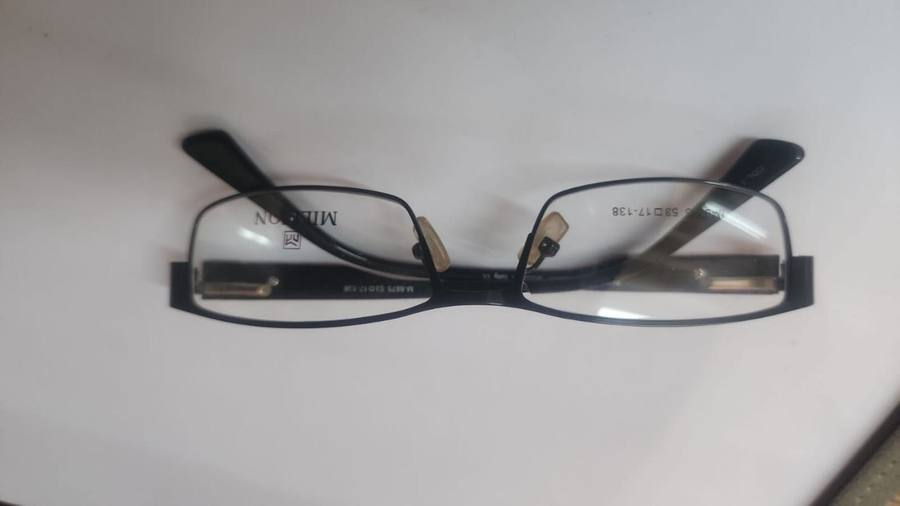
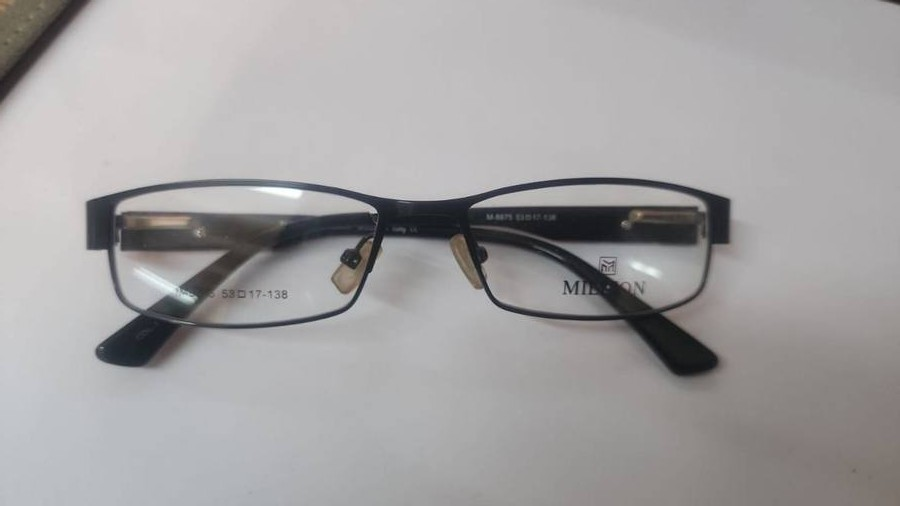
fix: lotexopticals.com domain correction, redesign product cards for high-end feel, and fix image orientations

diff --git a/collection.html b/collection.html
@@ -18,8 +18,8 @@
         content="Explore the full collection of premium frames at Lotex Opticals. Find the perfect fit from our wide range of eyeglasses and sunglasses.">
     <meta property="og:title" content="Our Collection | Lotex Opticals">
     <meta property="og:description" content="Explore our premium range of frames in Kiambu Town.">
-    <meta property="og:image" content="https://lotexopticals.co.ke/assets/img/lotex_logo.png">
-    <meta property="og:url" content="https://lotexopticals.co.ke/collection.html">
+    <meta property="og:image" content="https://lotexopticals.com/assets/img/lotex_logo.png">
+    <meta property="og:url" content="https://lotexopticals.com/collection.html">
     <style>
         /* Collection Specific Styles */
         .page-header {
@@ -185,7 +185,14 @@
             width: 100%;
             height: 100%;
             object-fit: contain;
-            transition: transform 0.4s ease;
+            /* Contain is safer for frames to avoid cropping */
+            padding: 10px;
+            /* Slight breathing room for high-end look */
+            transition: transform 0.6s cubic-bezier(0.4, 0, 0.2, 1);
+        }
+
+        .product-card:hover .product-image {
+            transform: scale(1.08);
         }
 
         /* Frame main image: clean, no rotation */
@@ -201,8 +208,11 @@
         }
 
         .product-card:hover .product-image.main-img {
-            transform: scale(1.04);
             opacity: 0;
+        }
+
+        .product-card:hover .product-actions {
+            display: none;
         }
 
         .product-image.hover-img {
@@ -254,21 +264,10 @@
             display: none;
         }
 
+        .product-actions,
         .wishlist-icon {
-            position: absolute;
-            top: 1rem;
-            right: 1rem;
-            width: 35px;
-            height: 35px;
-            background: white;
-            border-radius: 50%;
-            display: flex;
-            align-items: center;
-            justify-content: center;
-            box-shadow: 0 5px 15px rgba(0, 0, 0, 0.1);
-            cursor: pointer;
-            transition: var(--transition);
-            z-index: 10;
+            display: none !important;
+            /* Removing bad icons as requested */
         }
 
         .wishlist-icon:hover {
@@ -277,9 +276,80 @@
         }
 
         .product-info {
-            padding: 1.5rem;
-            text-align: center;
-            /* Center align text */
+            padding: 24px;
+            display: flex;
+            flex-direction: column;
+            gap: 12px;
+            text-align: left;
+            /* Premium left align */
+        }
+
+        .product-meta-top {
+            display: flex;
+            justify-content: space-between;
+            align-items: center;
+        }
+
+        .brand-name {
+            font-size: 0.8rem;
+            text-transform: uppercase;
+            letter-spacing: 0.1em;
+            color: #888;
+            font-weight: 700;
+        }
+
+        .category-pill {
+            font-size: 0.6rem;
+            text-transform: uppercase;
+            background: #f4f4f4;
+            padding: 4px 12px;
+            border-radius: 100px;
+            letter-spacing: 0.05em;
+            color: #777;
+            font-weight: 700;
+            border: 1px solid #eee;
+        }
+
+        .product-title {
+            font-family: 'Playfair Display', serif;
+            font-size: 1.3rem;
+            color: #1a1a1a;
+            margin: 0;
+            line-height: 1.2;
+            font-weight: 700;
+        }
+
+        .product-footer {
+            margin-top: 8px;
+            display: flex;
+            justify-content: space-between;
+            align-items: center;
+        }
+
+        .price-tag {
+            font-family: 'Outfit', sans-serif;
+            font-size: 1.1rem;
+            font-weight: 700;
+            color: var(--secondary);
+        }
+
+        .inquiry-button {
+            background: #1a1a1a;
+            color: white;
+            border: none;
+            padding: 10px 18px;
+            border-radius: 6px;
+            font-size: 0.75rem;
+            font-weight: 700;
+            letter-spacing: 0.1em;
+            cursor: pointer;
+            transition: all 0.3s cubic-bezier(0.4, 0, 0.2, 1);
+        }
+
+        .inquiry-button:hover {
+            background: var(--primary);
+            transform: translateY(-2px);
+            box-shadow: 0 4px 12px rgba(0, 0, 0, 0.15);
         }
 
         .product-header {
@@ -953,7 +1023,6 @@
                 const imgClass = product.isRaw ? 'product-image raw-style' : 'product-image';
                 const rotateClass = '';
 
-
                 // Hover Image Logic - Only for frames, not raw lenses
                 let imageHTML = `<img src="${product.image}" alt="${product.name}" class="${imgClass} ${rotateClass} main-img" loading="lazy">`;
                 if (!product.isRaw && product.hoverImage) {
@@ -966,21 +1035,17 @@
                         ${isNewBadge}
                         ${discount}
                         ${imageHTML}
-                        <div class="product-actions">
-                            <button class="action-btn" title="Add to Wishlist"><i class="far fa-heart"></i></button>
-                            <button class="action-btn" title="Quick View"><i class="far fa-eye"></i></button>
-                        </div>
                     </div>
                     <div class="product-info">
-                        <h3 class="product-name">${product.brand} ${product.name}</h3>
-                        <div class="product-meta">
-                            <span class="meta-tag" style="background:#eef; color:#33d;">${product.category}</span>
+                        <div class="product-meta-top">
+                            <span class="brand-name">${product.brand}</span>
+                            <span class="category-pill">${product.category}</span>
                         </div>
-                        <span class="price-tag">KES ${product.price.toLocaleString()}</span> 
-                        
-                        <a href="#" class="btn btn-outline-white btn-whatsapp" style="width: 100%; margin-top: 1rem; border: 1px solid var(--text-main); color: var(--text-main);">
-                            INQUIRE
-                        </a>
+                        <h3 class="product-title">${product.name}</h3>
+                        <div class="product-footer">
+                            <span class="price-tag">KES ${product.price.toLocaleString()}</span>
+                            <button class="inquiry-button">INQUIRE</button>
+                        </div>
                     </div>
                 </div>
                 `;
@@ -1007,11 +1072,11 @@
                     const card = tempDiv.firstElementChild;
                     grid.appendChild(card);
 
-                    const btn = card.querySelector('.btn-whatsapp');
+                    const btn = card.querySelector('.inquiry-button');
                     if (btn) {
                         btn.addEventListener('click', (e) => {
                             e.preventDefault();
-                            const message = encodeURIComponent(`Hi Lotex! Inquiry about: ${product.brand} ${product.name} for ${product.gender} (Ref: ${product.id}), Price: KES ${product.price}`);
+                            const message = encodeURIComponent(`Hi Lotex! Inquiry about: ${product.brand} ${product.name} (Ref: ${product.id}), Price: KES ${product.price}`);
                             window.open(`https://wa.me/254722361831?text=${message}`, '_blank');
                         });
                     }
@@ -1027,12 +1092,11 @@
             }
 
             function filterProducts() {
-                const searchQuery = document.getElementById('product-search')?.value.toLowerCase() || '';
+                const searchQuery = document.getElementById('product-search')?.value.toLowerCase().trim() || '';
                 const selectedGenders = Array.from(document.querySelectorAll('input[name="gender"]:checked')).map(cb => cb.value);
                 const selectedBrands = Array.from(document.querySelectorAll('input[name="brand"]:checked')).map(cb => cb.value);
                 const selectedShapes = Array.from(document.querySelectorAll('input[name="shape"]:checked')).map(cb => cb.value);
                 const selectedCategories = Array.from(document.querySelectorAll('input[name="category"]:checked')).map(cb => cb.value);
-                const selectedLens = Array.from(document.querySelectorAll('input[name="lens"]:checked')).map(cb => cb.value);
                 const maxPrice = maxPriceInput ? (parseInt(maxPriceInput.value) || 100000) : 100000;
 
                 const filtered = products.filter(item => {
@@ -1051,16 +1115,30 @@
                     const genderMatch = selectedGenders.length === 0 || selectedGenders.includes(item.gender);
                     const brandMatch = selectedBrands.length === 0 || selectedBrands.includes(item.brand);
                     const shapeMatch = selectedShapes.length === 0 || selectedShapes.includes(item.shape);
-                    const lensMatch = selectedLens.length === 0 || selectedLens.some(l => item.lensFeatures.includes(l));
                     const priceMatch = item.price <= maxPrice;
 
-                    return searchMatch && genderMatch && brandMatch && shapeMatch && categoryMatch && lensMatch && priceMatch;
+                    return searchMatch && genderMatch && brandMatch && shapeMatch && categoryMatch && priceMatch;
                 });
 
-                // Sort: Frames (!isRaw) first, Lenses (isRaw) at the bottom
+                // Sort: Selected Brand / Featured first, then other Frames, then Lenses
                 const sorted = filtered.sort((a, b) => {
+                    // Raw always at bottom
                     if (a.isRaw && !b.isRaw) return 1;
                     if (!a.isRaw && b.isRaw) return -1;
+
+                    // If a specific brand is selected, prioritize it (though the filter usually handles this, 
+                    // this helps if multiple filters or search are mixed)
+                    if (selectedBrands.length > 0) {
+                        const aMatch = selectedBrands.includes(a.brand);
+                        const bMatch = selectedBrands.includes(b.brand);
+                        if (aMatch && !bMatch) return -1;
+                        if (!aMatch && bMatch) return 1;
+                    }
+
+                    // Prioritize "New" items as featured
+                    if (a.isNew && !b.isNew) return -1;
+                    if (!a.isNew && b.isNew) return 1;
+
                     return 0;
                 });
 

diff --git a/index.html b/index.html
@@ -19,8 +19,8 @@
     <meta property="og:title" content="Lotex Opticals | Kiambu Town | Do More. Be More.">
     <meta property="og:description"
         content="Kenya's premier destination for expert eye care and premium eyewear in Kiambu Town.">
-    <meta property="og:image" content="https://lotexopticals.co.ke/assets/img/lotex_logo.png">
-    <meta property="og:url" content="https://lotexopticals.co.ke">
+    <meta property="og:image" content="https://lotexopticals.com/assets/img/lotex_logo.png">
+    <meta property="og:url" content="https://lotexopticals.com">
     <meta name="twitter:card" content="summary_large_image">
 
     <script type="application/ld+json">
@@ -28,8 +28,8 @@
       "@context": "https://schema.org",
       "@type": "Organization",
       "name": "Lotex Opticals",
-      "url": "https://lotexopticals.co.ke",
-      "logo": "https://lotexopticals.co.ke/assets/img/lotex_logo.png",
+      "url": "https://lotexopticals.com",
+      "logo": "https://lotexopticals.com/assets/img/lotex_logo.png",
       "contactPoint": {
         "@type": "ContactPoint",
         "telephone": "+254-722-361-831",
